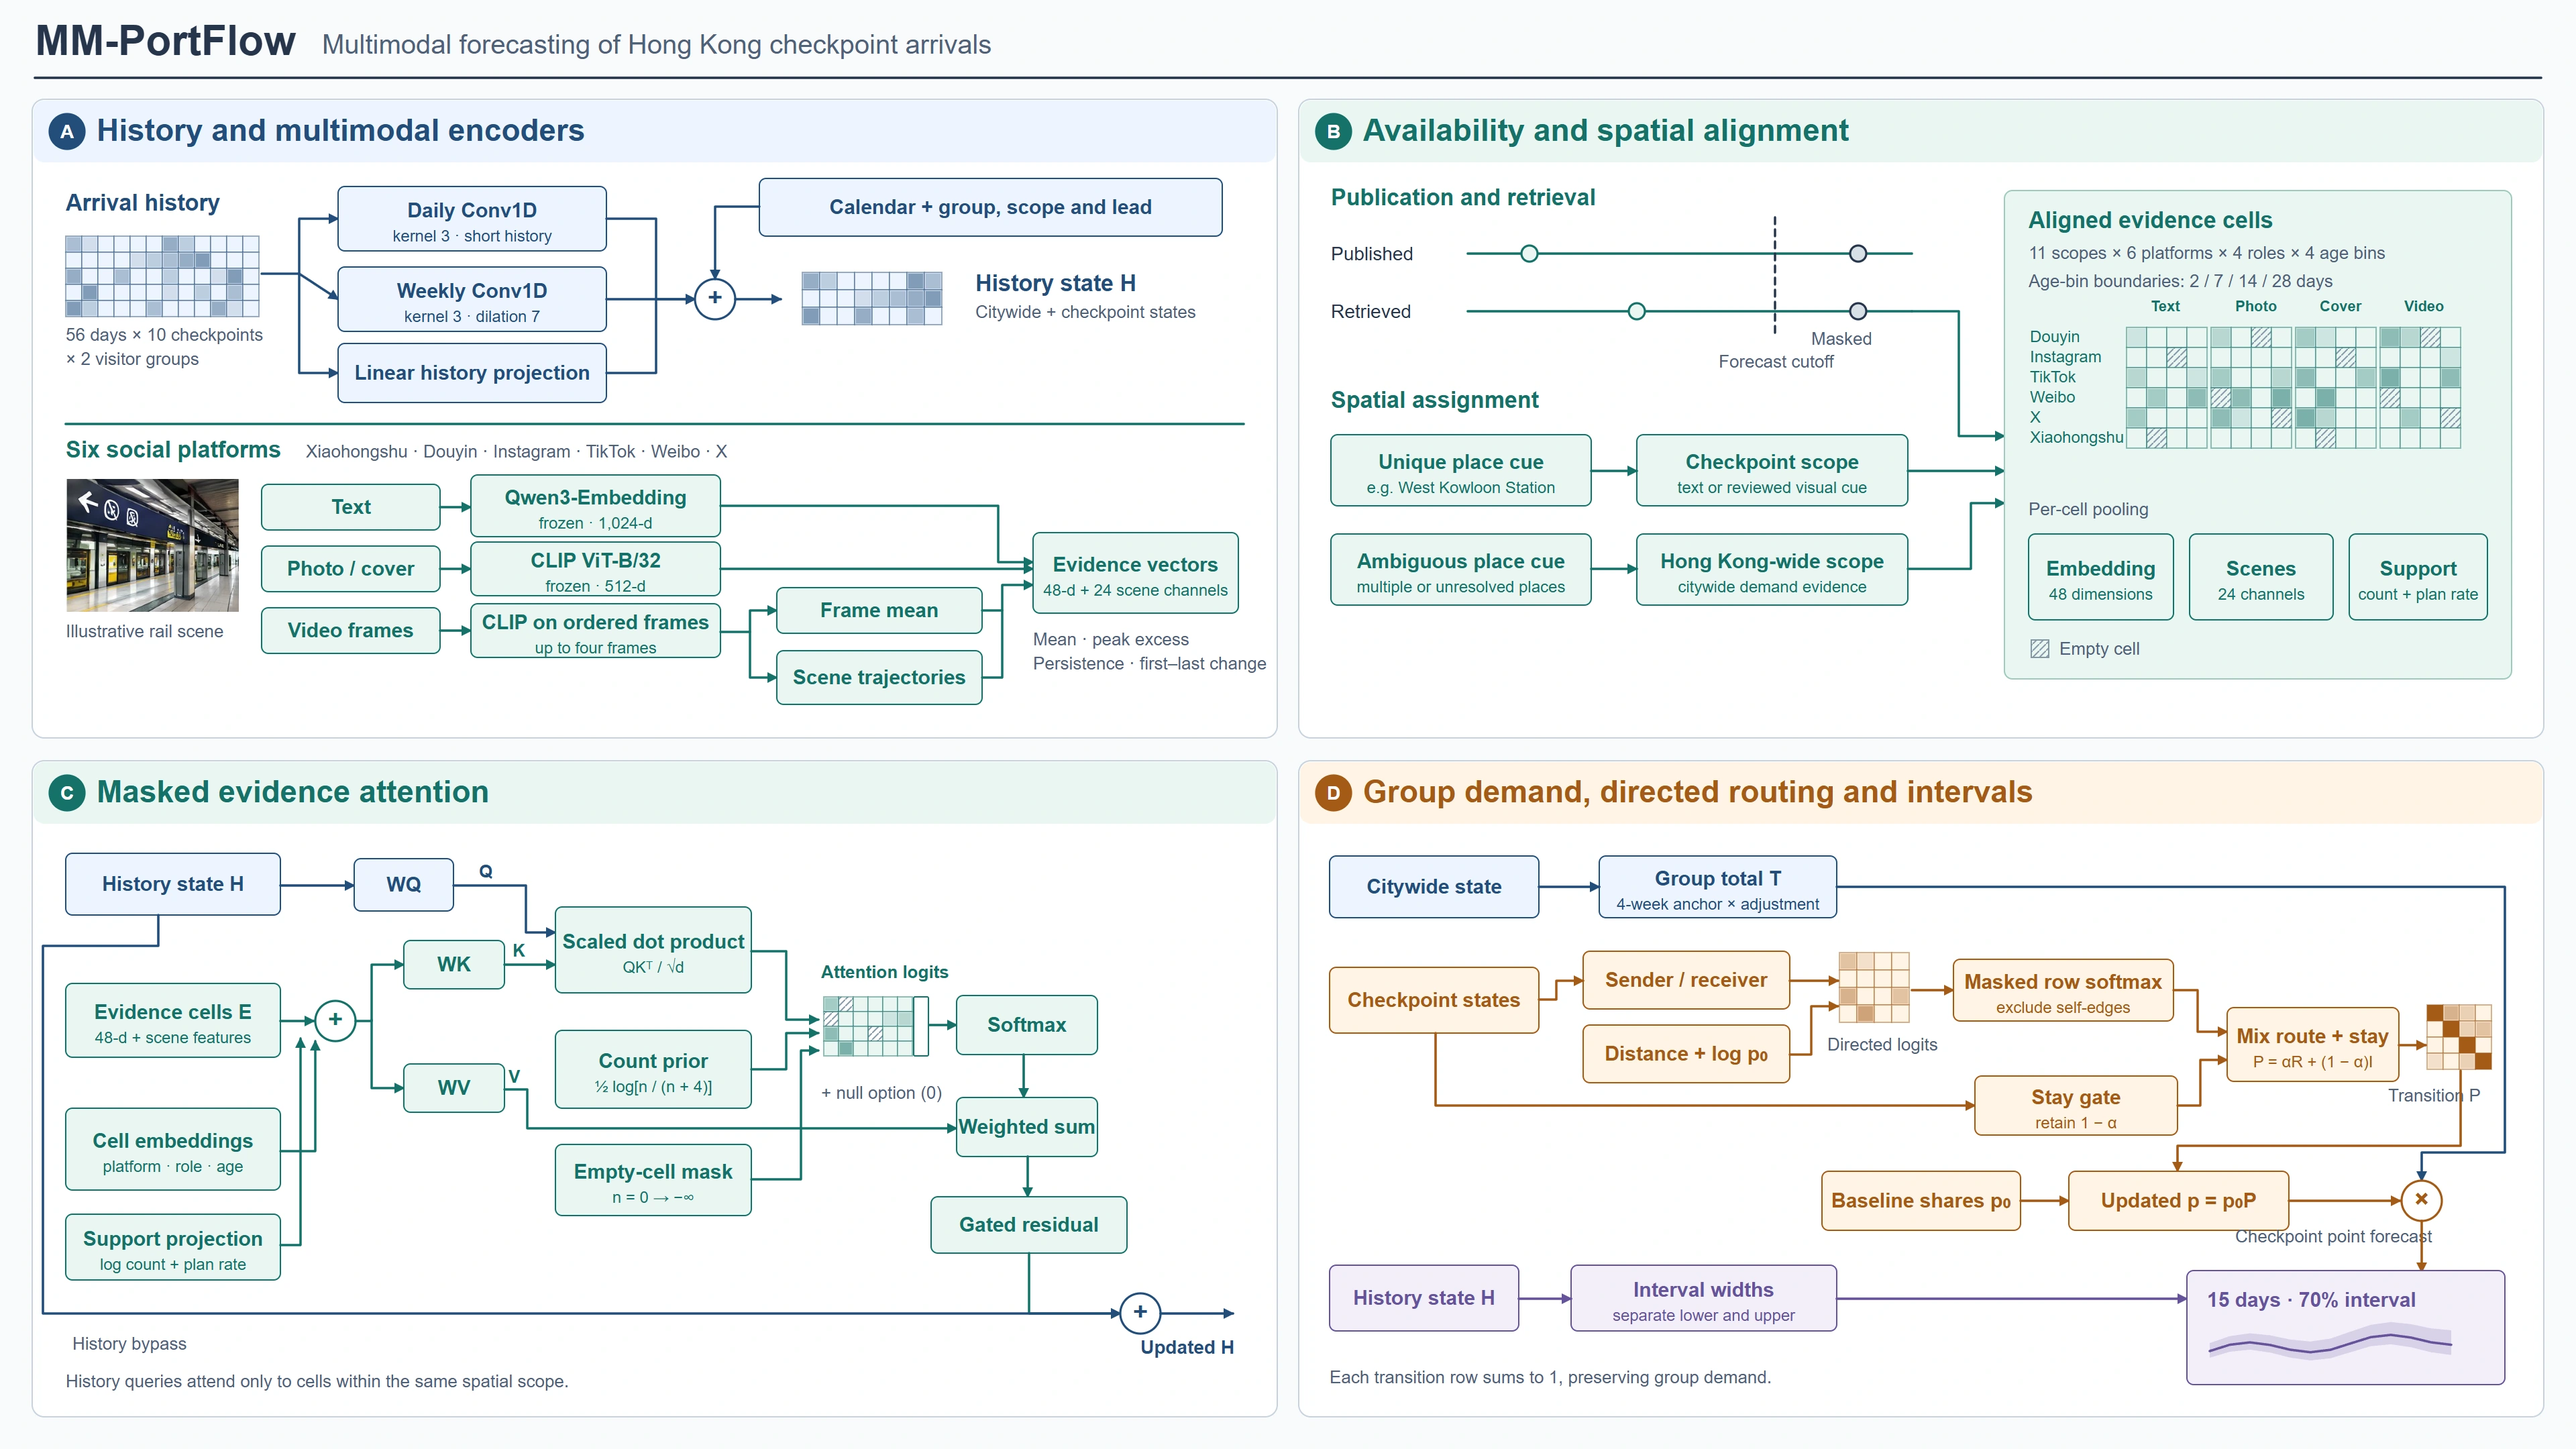
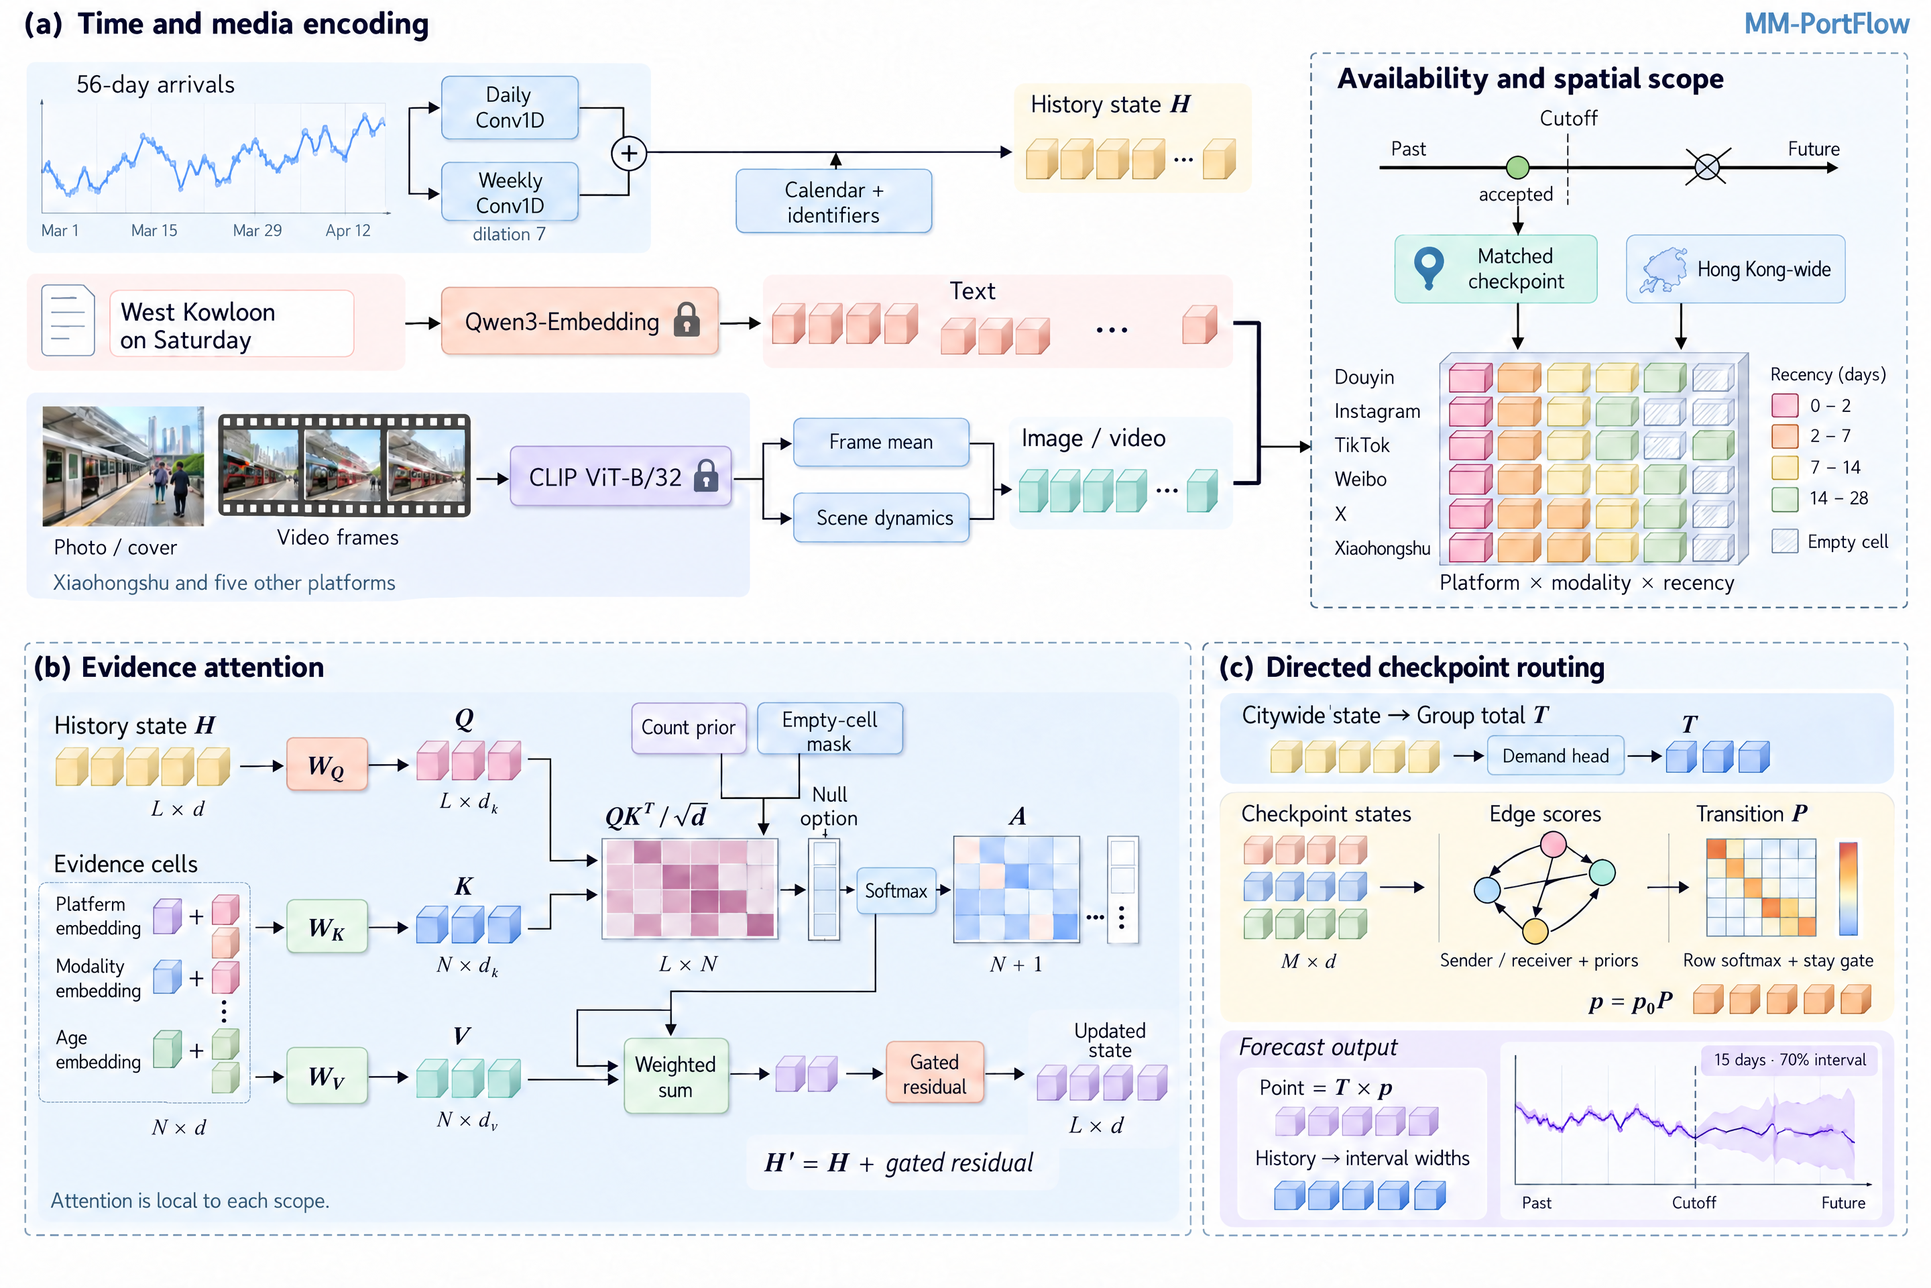
Publish Image 2.5 architecture with supplied paper references

Changed region(s): [[0.0, 0.0, 0.9688, 0.5], [0.0, 0.5, 1.0, 0.9688], [0.9062, 0.0, 1.0, 0.0312]]

diff --git a/site/methods.html b/site/methods.html
@@ -120,11 +120,11 @@
           <a class="text-link" href="index.html#multimodal"><span class="copy-en">View experiment ↗</span><span class="copy-zh">查看实验结果 ↗</span></a>
         </div>
         <figure class="architecture-figure" id="architecture">
-          <a class="architecture-image" href="assets/mm-portflow-sunburst.webp?v=technical" aria-label="Open the full-size architecture figure" data-zh-aria="查看完整尺寸的架构图"><img src="assets/mm-portflow-sunburst.webp?v=technical" alt="Four panels show the history and media encoders, evidence availability and spatial alignment, masked query-key-value attention, and directed checkpoint routing with interval prediction." data-zh-alt="四个面板分别展示客流和媒体编码、证据时间与空间对齐、带掩码的查询键值注意力，以及有向口岸分流和预测区间。" width="3840" height="2160" loading="lazy"></a>
+          <a class="architecture-image" href="assets/mm-portflow-sunburst.webp?v=paper" aria-label="Open the full-size architecture figure" data-zh-aria="查看完整尺寸的架构图"><img src="assets/mm-portflow-sunburst.webp?v=paper" alt="MM-PortFlow encodes arrival history and social media, aligns evidence by cutoff and location, and uses masked attention and directed checkpoint routing to forecast counts and intervals." data-zh-alt="MM-PortFlow 对历史客流和社媒分别编码，按截点和地点对齐证据，再通过掩码注意力和有向口岸分流预测客流和区间。" width="2880" height="1920" loading="lazy"></a>
           <figcaption>
-            <p lang="en"><strong>MM-PortFlow architecture.</strong> (a) Daily and weekly convolutions encode arrival history alongside frozen text and vision encoders. (b) The forecast cutoff and location evidence determine which records enter each cell. (c) Masked attention updates the history state. (d) A directed transition matrix updates checkpoint shares and the history branch supplies the interval widths.</p>
-            <p lang="zh-Hans"><strong>MM-PortFlow 模型架构。</strong>（a）日周期和周周期卷积编码客流，并行提取图文视频特征。（b）按预测截点和地点证据划分记录。（c）带掩码的注意力修正历史状态。（d）有向转移矩阵更新口岸份额，历史分支估计区间宽度。</p>
-            <a class="architecture-full" href="assets/mm-portflow-technical.svg"><span lang="en">Open vector figure ↗</span><span lang="zh-Hans">打开矢量图 ↗</span></a>
+            <p lang="en"><strong>MM-PortFlow architecture.</strong> (a) Parallel encoders represent arrival history, text, photos and video frames. Media evidence is filtered by cutoff and spatial scope. (b) Masked attention updates the history state. (c) A directed transition matrix allocates visitor totals across checkpoints, and the history branch supplies interval widths.</p>
+            <p lang="zh-Hans"><strong>MM-PortFlow 模型架构。</strong>（a）并行编码历史客流与图文视频，按预测截点和空间层级筛选证据。（b）带掩码的注意力修正历史状态。（c）有向转移矩阵将客群总量分配到各口岸，历史分支估计区间宽度。</p>
+            <a class="architecture-full" href="assets/mm-portflow-sunburst.webp?v=paper" download="MM-PortFlow-architecture.webp"><span lang="en">Download full-size figure ↓</span><span lang="zh-Hans">下载高清图 ↓</span></a>
           </figcaption>
         </figure>
         <details class="card method-card architecture-details">

diff --git a/site/index.html b/site/index.html
@@ -110,7 +110,7 @@
           <a class="text-link" href="methods.html#architecture"><span class="copy-en">Architecture ↗</span><span class="copy-zh">算法流程 ↗</span></a>
         </div>
         <figure class="architecture-figure">
-          <a class="architecture-image" href="methods.html#architecture" aria-label="Explore the MM-PortFlow architecture" data-zh-aria="查看 MM-PortFlow 模型架构"><img src="assets/mm-portflow-sunburst.webp?v=technical" width="3840" height="2160" loading="lazy" alt="Four-panel MM-PortFlow architecture showing multimodal encoders, cutoff and location filtering, masked attention, and directed checkpoint routing." data-zh-alt="MM-PortFlow 四面板架构图展示多模态编码、时间截点和地点筛选、掩码注意力及有向口岸分流。"></a>
+          <a class="architecture-image" href="methods.html#architecture" aria-label="Explore the MM-PortFlow architecture" data-zh-aria="查看 MM-PortFlow 模型架构"><img src="assets/mm-portflow-sunburst.webp?v=paper" width="2880" height="1920" loading="lazy" alt="The MM-PortFlow architecture shows multimodal encoders, time and location filtering, masked attention, and directed checkpoint routing." data-zh-alt="MM-PortFlow 架构图展示多模态编码、时间截点和地点筛选、掩码注意力及有向口岸分流。"></a>
           <figcaption><p lang="en">MM-PortFlow combines arrival history with evidence from six social platforms.</p><p lang="zh-Hans">MM-PortFlow 将历史客流与包括小红书在内的六个平台数据融合。</p></figcaption>
         </figure>
         <div class="experiment-grid">
